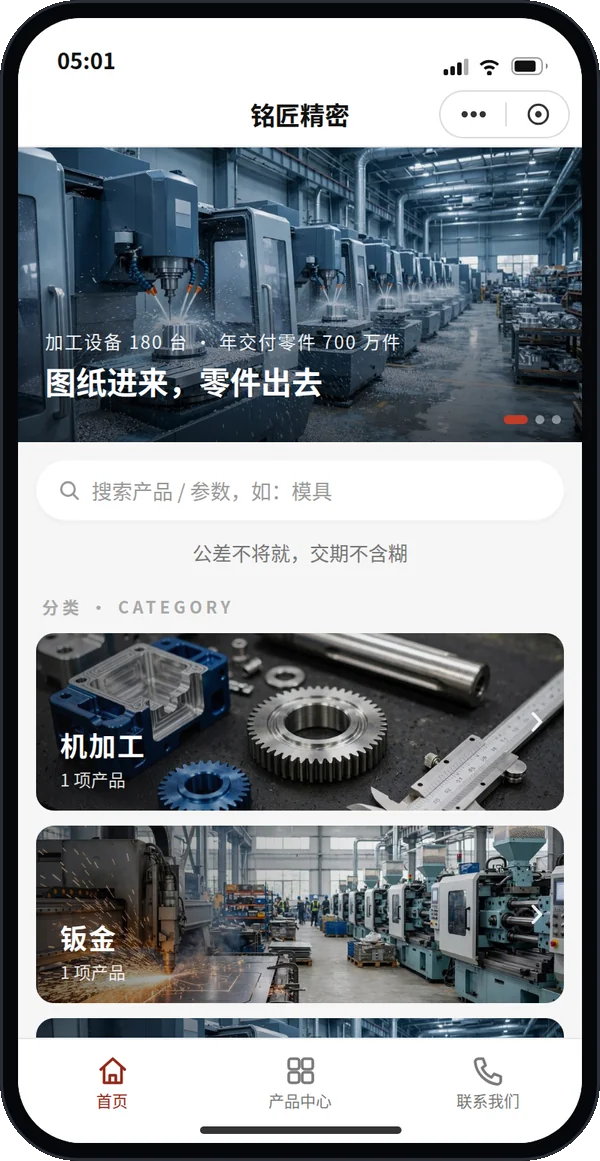
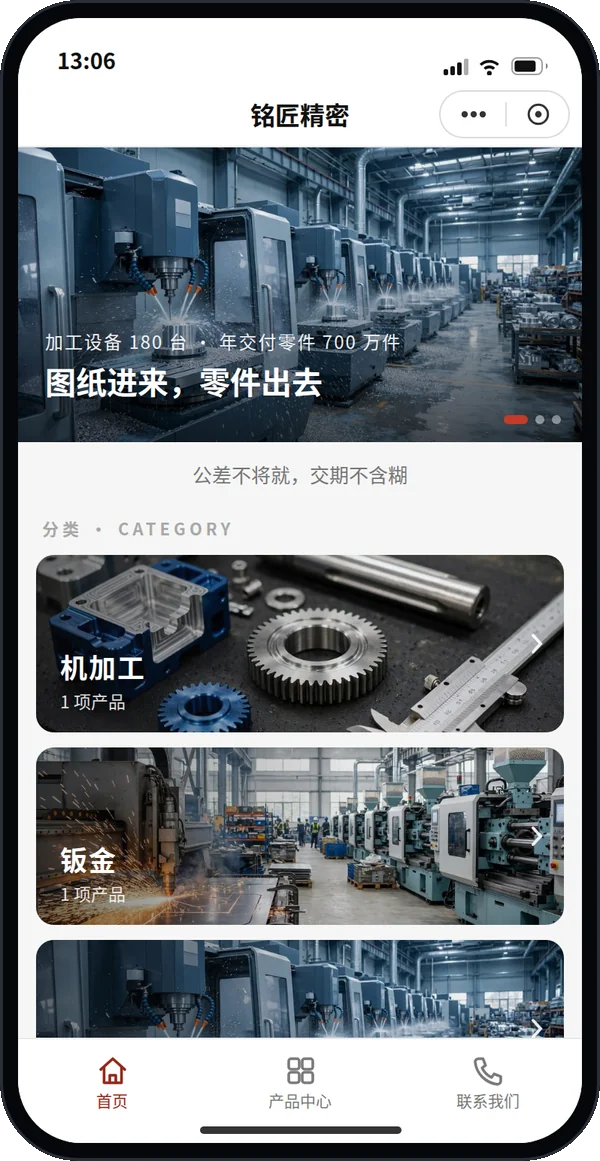
MP-S2 第十四轮：「搜索不入首页」通则补齐（用户实点）——S2 首页 .feed-search 搜索入口条撤除（渲染/CSS/点击接线零残留、hero 直起），产品中心常驻搜索保留口径不动；assert 升级本轮验收门（零残留组+搜索归位组+关键词/参数命中组）86 项 × 7 包 = 602 全过（改前基线 80×7）；门户 S2 卡图 7 张刷新

diff --git a/mp/s2/index.html b/mp/s2/index.html
@@ -97,7 +97,6 @@
   .biz{ display:flex; flex-wrap:wrap; gap:8px; padding:6px 16px 15px; }
   .biz .b{ font-size:12.5px; color:#444; background:#fff; border:1px solid #e0e0e0; border-radius:99px; padding:6px 12px; cursor:pointer; }
   /* 首页信息流（app 式连续流 + izumi 参照：小标签、留白、大图卡、Pickup 策展） */
-  .feed-search{ margin:12px 12px 0; background:#fff; border-radius:99px; padding:10px 14px; display:flex; align-items:center; gap:7px; color:#999; font-size:13.5px; box-shadow:0 1px 4px rgba(20,20,20,.05); cursor:pointer; }
   .flow-claim{ text-align:center; font-size:13px; color:#777; padding:12px 30px 0; line-height:1.6; }
   .flow-label{ margin:16px 16px 0; font-size:11px; letter-spacing:2.5px; color:#a8a8a8; font-weight:600; }
   .catcard{ position:relative; height:118px; border-radius:12px; overflow:hidden; margin:10px 12px 0; cursor:pointer; background:#222; }
@@ -182,7 +181,21 @@
           font-size:13.5px; line-height:1.6; padding:13px 18px; border-radius:10px; max-width:270px; text-align:center; opacity:0; pointer-events:none; transition:opacity .22s; }
   .toast.show{ opacity:1; }
   .hidden{ display:none !important; }
-  @media (max-width:900px){ .stage{ flex-direction:column; align-items:center; } .panel{ width:min(399px,94vw); order:2; } }
+  @media (max-width:900px){
+    .stage{ flex-direction:column; align-items:center; padding-top:78px; }
+    .panel{ width:min(399px,94vw); order:2; }
+    /* 壳外控件固定顶栏（预览页移动端可达性口径）：换包 / 全屏 / 重置始终在顶部可达，
+       不必滑过手机框与整段说明面板；舞台顶部留白避让顶栏，全屏时另见下方两条 */
+    .panel .ctl{ position:fixed; top:0; left:0; right:0; z-index:90; flex-direction:row; align-items:center; gap:8px;
+      margin:0; padding:8px 10px; background:rgba(13,17,26,.97); border-bottom:1px solid #26314a; box-shadow:0 4px 18px rgba(0,0,0,.35); }
+    .panel .ctl label{ display:none; }
+    .panel .ctl select{ flex:1 1 auto; min-width:0; width:auto; }
+    .panel .ctl button{ flex:none; padding:9px 10px; font-size:13px; white-space:nowrap; }
+    .phone-wrap{ scroll-margin-top:70px; }
+    /* 全屏时面板整体隐藏会连带藏起顶栏（退出全屏的唯一入口）——移动端只藏面板内容、保留顶栏 */
+    .stage.full .panel{ display:block; width:auto; height:0; padding:0; margin:0; overflow:visible; }
+    .stage.full .panel>*:not(.ctl){ display:none; }
+  }
   @media (max-width:430px){ .phone{ transform:scale(.88); transform-origin:top center; margin-bottom:-90px; } }
 </style></head>
 <body>
@@ -194,7 +207,7 @@
       <h3>样板构成</h3>
       <ul>
         <li>骨架：MP-S2 目录型 · 精简 3 栏（用户定版 tab 架构标准：适合产品线单一或重展示的工厂 / B2B 企业）</li>
-        <li>栏位：首页（app 式连续流：搜索入口前置 / 分类大图卡 / 亮点与简介作流内卡 / 统计单点 / Pickup 主推策展收尾）· 产品中心（目录主场：左侧分类导航 + 规格速览密集列表 + 常驻搜索）· 联系我们（资质荣誉 / 工厂地址与导航 / 询盘联系方式 / 在线留资表单）</li>
+        <li>栏位：首页（app 式连续流：分类大图卡 / 亮点与简介作流内卡 / 统计单点 / Pickup 主推策展收尾；搜索不入首页、归产品中心）· 产品中心（目录主场：左侧分类导航 + 规格速览密集列表 + 常驻搜索）· 联系我们（资质荣誉 / 工厂地址与导航 / 询盘联系方式 / 在线留资表单）</li>
         <li>设计参照：泉株式会社 izumi.inc（用户钦定品质标杆）——克制与留白、小标签 + 大图卡、Pickup 式策展；取其语言不搬其网站版式</li>
         <li>与 MP-S1 的分工：S1 是展示型（经典 4 栏，重品牌展示与动态背书）；S2 是目录型（精简 3 栏，重目录浏览与选型效率），本骨架不设动态栏</li>
         <li>转化设计：产品详情页固定悬浮一键拨号 + 在线客服（动作不印号码）；联系方式全文只在联系我们栏出现一处；企业简介全文只在首页一处</li>
@@ -298,8 +311,9 @@ function statsHTML() {
     '<div class="st"><div class="v">' + esc(s.value) + '</div><div class="l">' + esc(s.label) + '</div></div>').join("") + "</div>";
 }
 function renderHome() {
-  /* 首页 = app 式连续流（用户 2026-11-15 09:54 裁定 + izumi 参照）：任务入口前置、分类大图卡、
-     品牌元素（主张/亮点/简介/统计）压缩为流内元素、Pickup 策展收尾并明确完结；不做官网章节式堆叠 */
+  /* 首页 = app 式连续流（用户 2026-11-15 09:54 裁定 + izumi 参照）：分类大图卡、
+     品牌元素（主张/亮点/简介/统计）压缩为流内元素、Pickup 策展收尾并明确完结；不做官网章节式堆叠。
+     搜索入口条原位于 hero 之下，第十四轮按「搜索不入首页」跨骨架通则撤除（搜索归产品中心常驻搜索） */
   const feats = P.products.slice(0, 3);
   const cats = catList().slice(1);
   const catImg = c => (P.products.find(p => p.cat === c) || {}).img;
@@ -315,7 +329,6 @@ function renderHome() {
     </div>
     <div class="dots">${P.hero_slides.map((_, i) => `<i class="${i === S.slide ? "on" : ""}" data-slide="${i}"></i>`).join("")}</div>
   </div>
-  <div class="feed-search" data-search>${IC.search}<span>搜索产品 / 参数，如：${esc(P.search_example)}</span></div>
   <div class="flow-claim">${esc(P.tagline)}</div>
   <div class="flow-label">分类 · CATEGORY</div>
   ${cats.map(c => `
@@ -530,7 +543,6 @@ document.addEventListener("click", e => {
   const det = e.target.closest("[data-detail]"); if (det) { openDetail(+det.dataset.detail); return; }
   const cat = e.target.closest("[data-cat]"); if (cat) { S.cat = cat.dataset.cat; S.query = ""; render(); $("#page").scrollTop = 0; return; }
   const catlink = e.target.closest("[data-catlink]"); if (catlink) { goProducts(catlink.dataset.catlink); return; }
-  const srch = e.target.closest("[data-search]"); if (srch) { goProducts("全部"); const q = $("#q"); if (q) q.focus(); return; }
   const biz = e.target.closest("[data-biz]"); if (biz) { goProducts(P.biz_cats[+biz.dataset.biz] || "全部"); return; }
   const act = e.target.closest("[data-act]");
   if (act) {
@@ -565,8 +577,14 @@ function fitFull(){
   if (!st.classList.contains("full")) { ph.style.transform = ""; return; }
   const vv = window.visualViewport;
   const vw = vv ? vv.width : window.innerWidth, vh = vv ? vv.height : window.innerHeight;
-  const s = Math.min(1.12, (vw - 16) / ph.offsetWidth, (vh - 44) / ph.offsetHeight);
+  let s = Math.min(1.12, (vw - 16) / ph.offsetWidth, (vh - 44) / ph.offsetHeight);
   ph.style.transform = "scale(" + s.toFixed(4) + ")";
+  /* 纵向校正：框体顶部有固定偏移时（如移动端顶栏避让的舞台留白），按实测可用高再收一档，保证底边不越界；无溢出时不触发，桌面观感不变 */
+  const r0 = ph.getBoundingClientRect();
+  if (r0.bottom > vh + 0.5 && r0.height > 0) {
+    s = s * Math.max(0.1, (vh - Math.max(0, r0.top) - 2) / r0.height);
+    ph.style.transform = "scale(" + s.toFixed(4) + ")";
+  }
   const r = ph.getBoundingClientRect(), dx = (vw - r.width) / 2 - r.left;
   if (Math.abs(dx) > 0.5) ph.style.transform = "translateX(" + dx.toFixed(1) + "px) scale(" + s.toFixed(4) + ")";
 }
